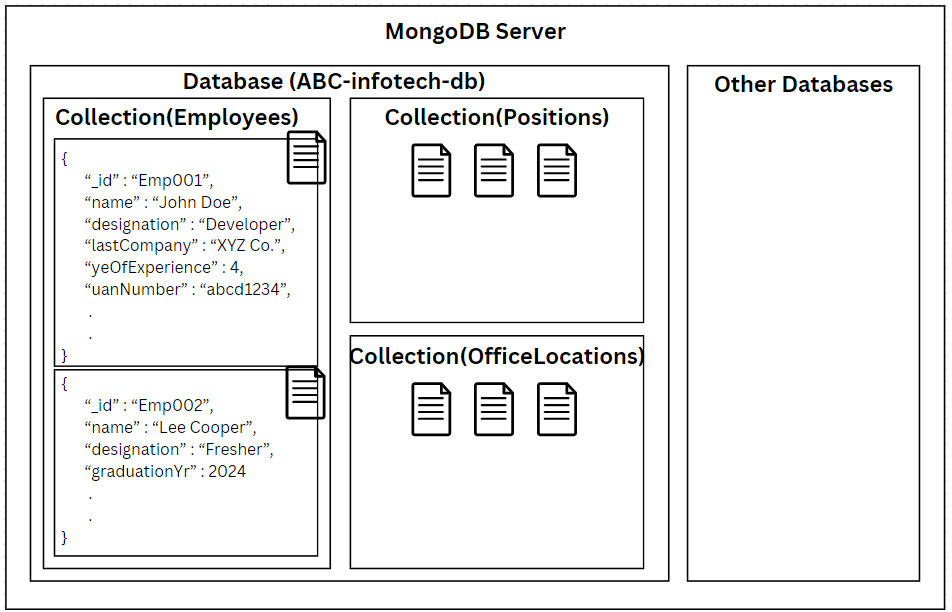
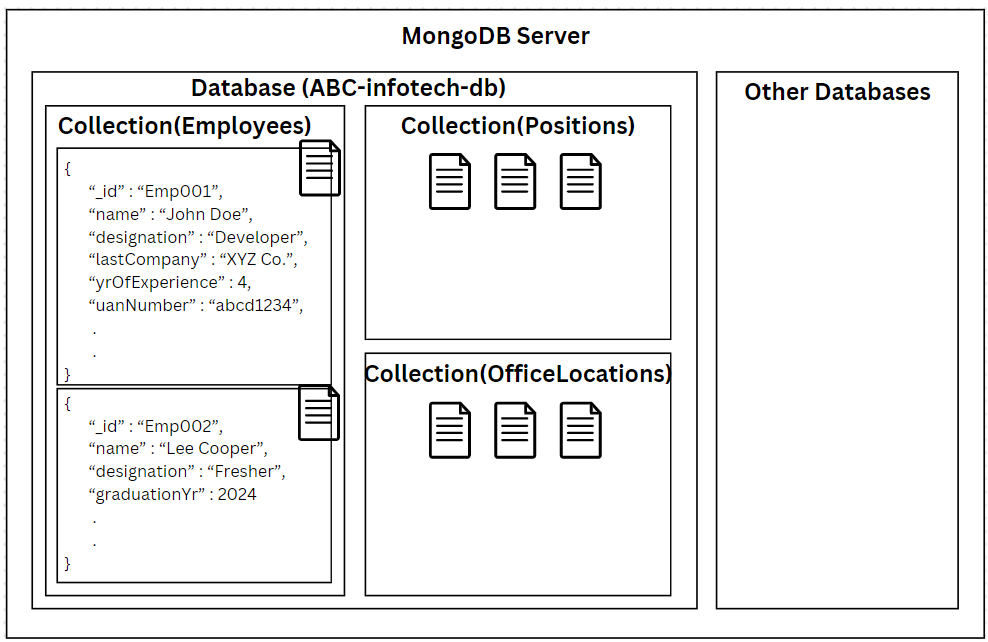
Introduction to MongoDB

Changed region(s): [[0.0, 0.0, 1.0, 1.0], [0.0914, 0.652, 0.3046, 0.8072]]

diff --git a/01-Introduction/README.md b/01-Introduction/README.md
@@ -1,0 +1,14 @@
+## Introduction to MongoDB
+
+### What is MongoDB?
+
+MongoDB is an open-source document-oriented database that is designed to store a large scale of data and also allows you to work with that data very efficiently. It is categorized under the NoSQL (Not only SQL or non SQL) database because the storage and retrieval of data in the MongoDB are not in the form of tables. MongoDB stores data in the form of documents.
+
+Basically whenever you start mongoDb you start a mongoDB server on which you can create databases. let's say we have a database called 'ABC-infotech-db' for a company name called ABC infotech. Now ABC infotech can have data for many entities like Employees, positions, office Locations, etc.
+So each entity can have its own collection (kind of a group of data for specific type of entity.) Each collection stores the data in the form of document in mongoDB. This document is just like json documents. Have a look at below image for better understanding.
+
+![MongoDB structure(01-Introduction/images/MongoDB structure.png)](https://github.com/Akhil-Selukar/MongoDB/blob/master/01-Introduction/images/MongoDB%20structure.png)
+
+From above diagram we can see that there are multiple databases running on a mongoDB server. Inside the database (ABC-infotech-db) there are multiple collections for individual entities. Inside each collection we have multiple documents. Documents are the places where the actual data is stored.
+
+From above diagram we can see that the documents in Employee collection does not have consistant structure (schema). First document has 'lastConmapy', 'yrOfExperience', 'uanNumber' fields which are not there in second document, while second document have 'graduationYr' field which is not there in first document. So this is what schema less or NoSql behaviour of mongoDB.
